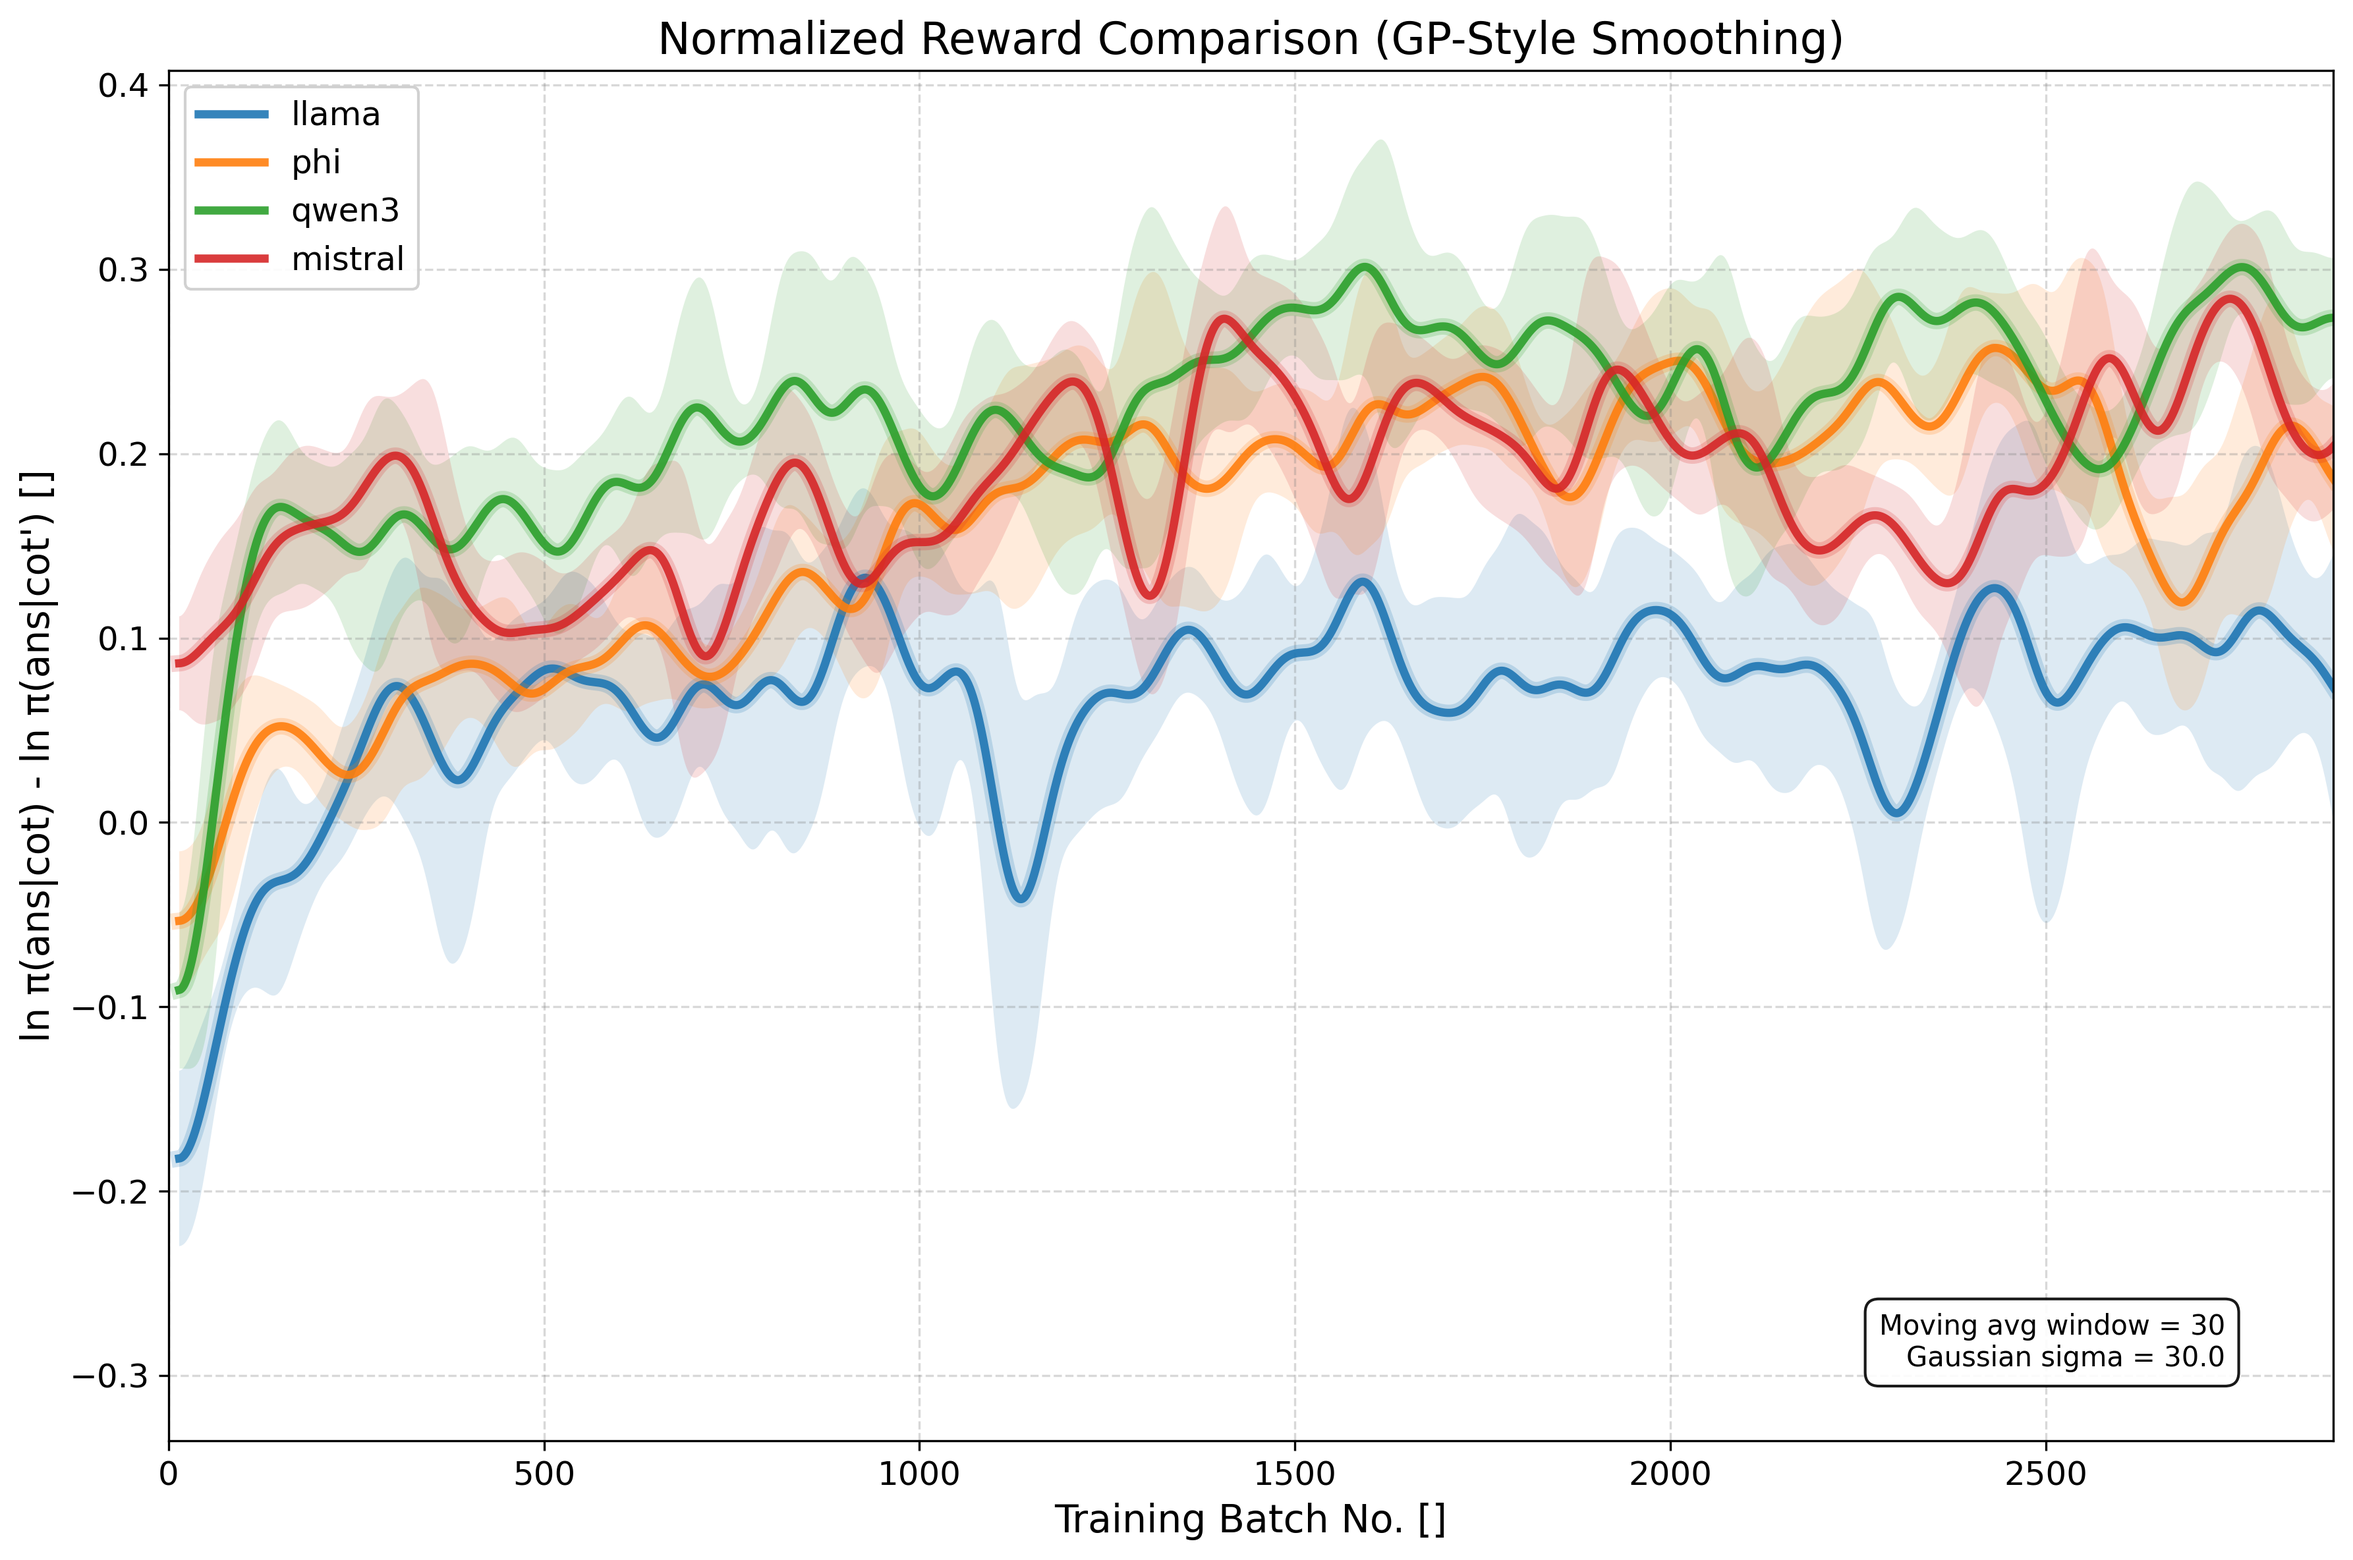
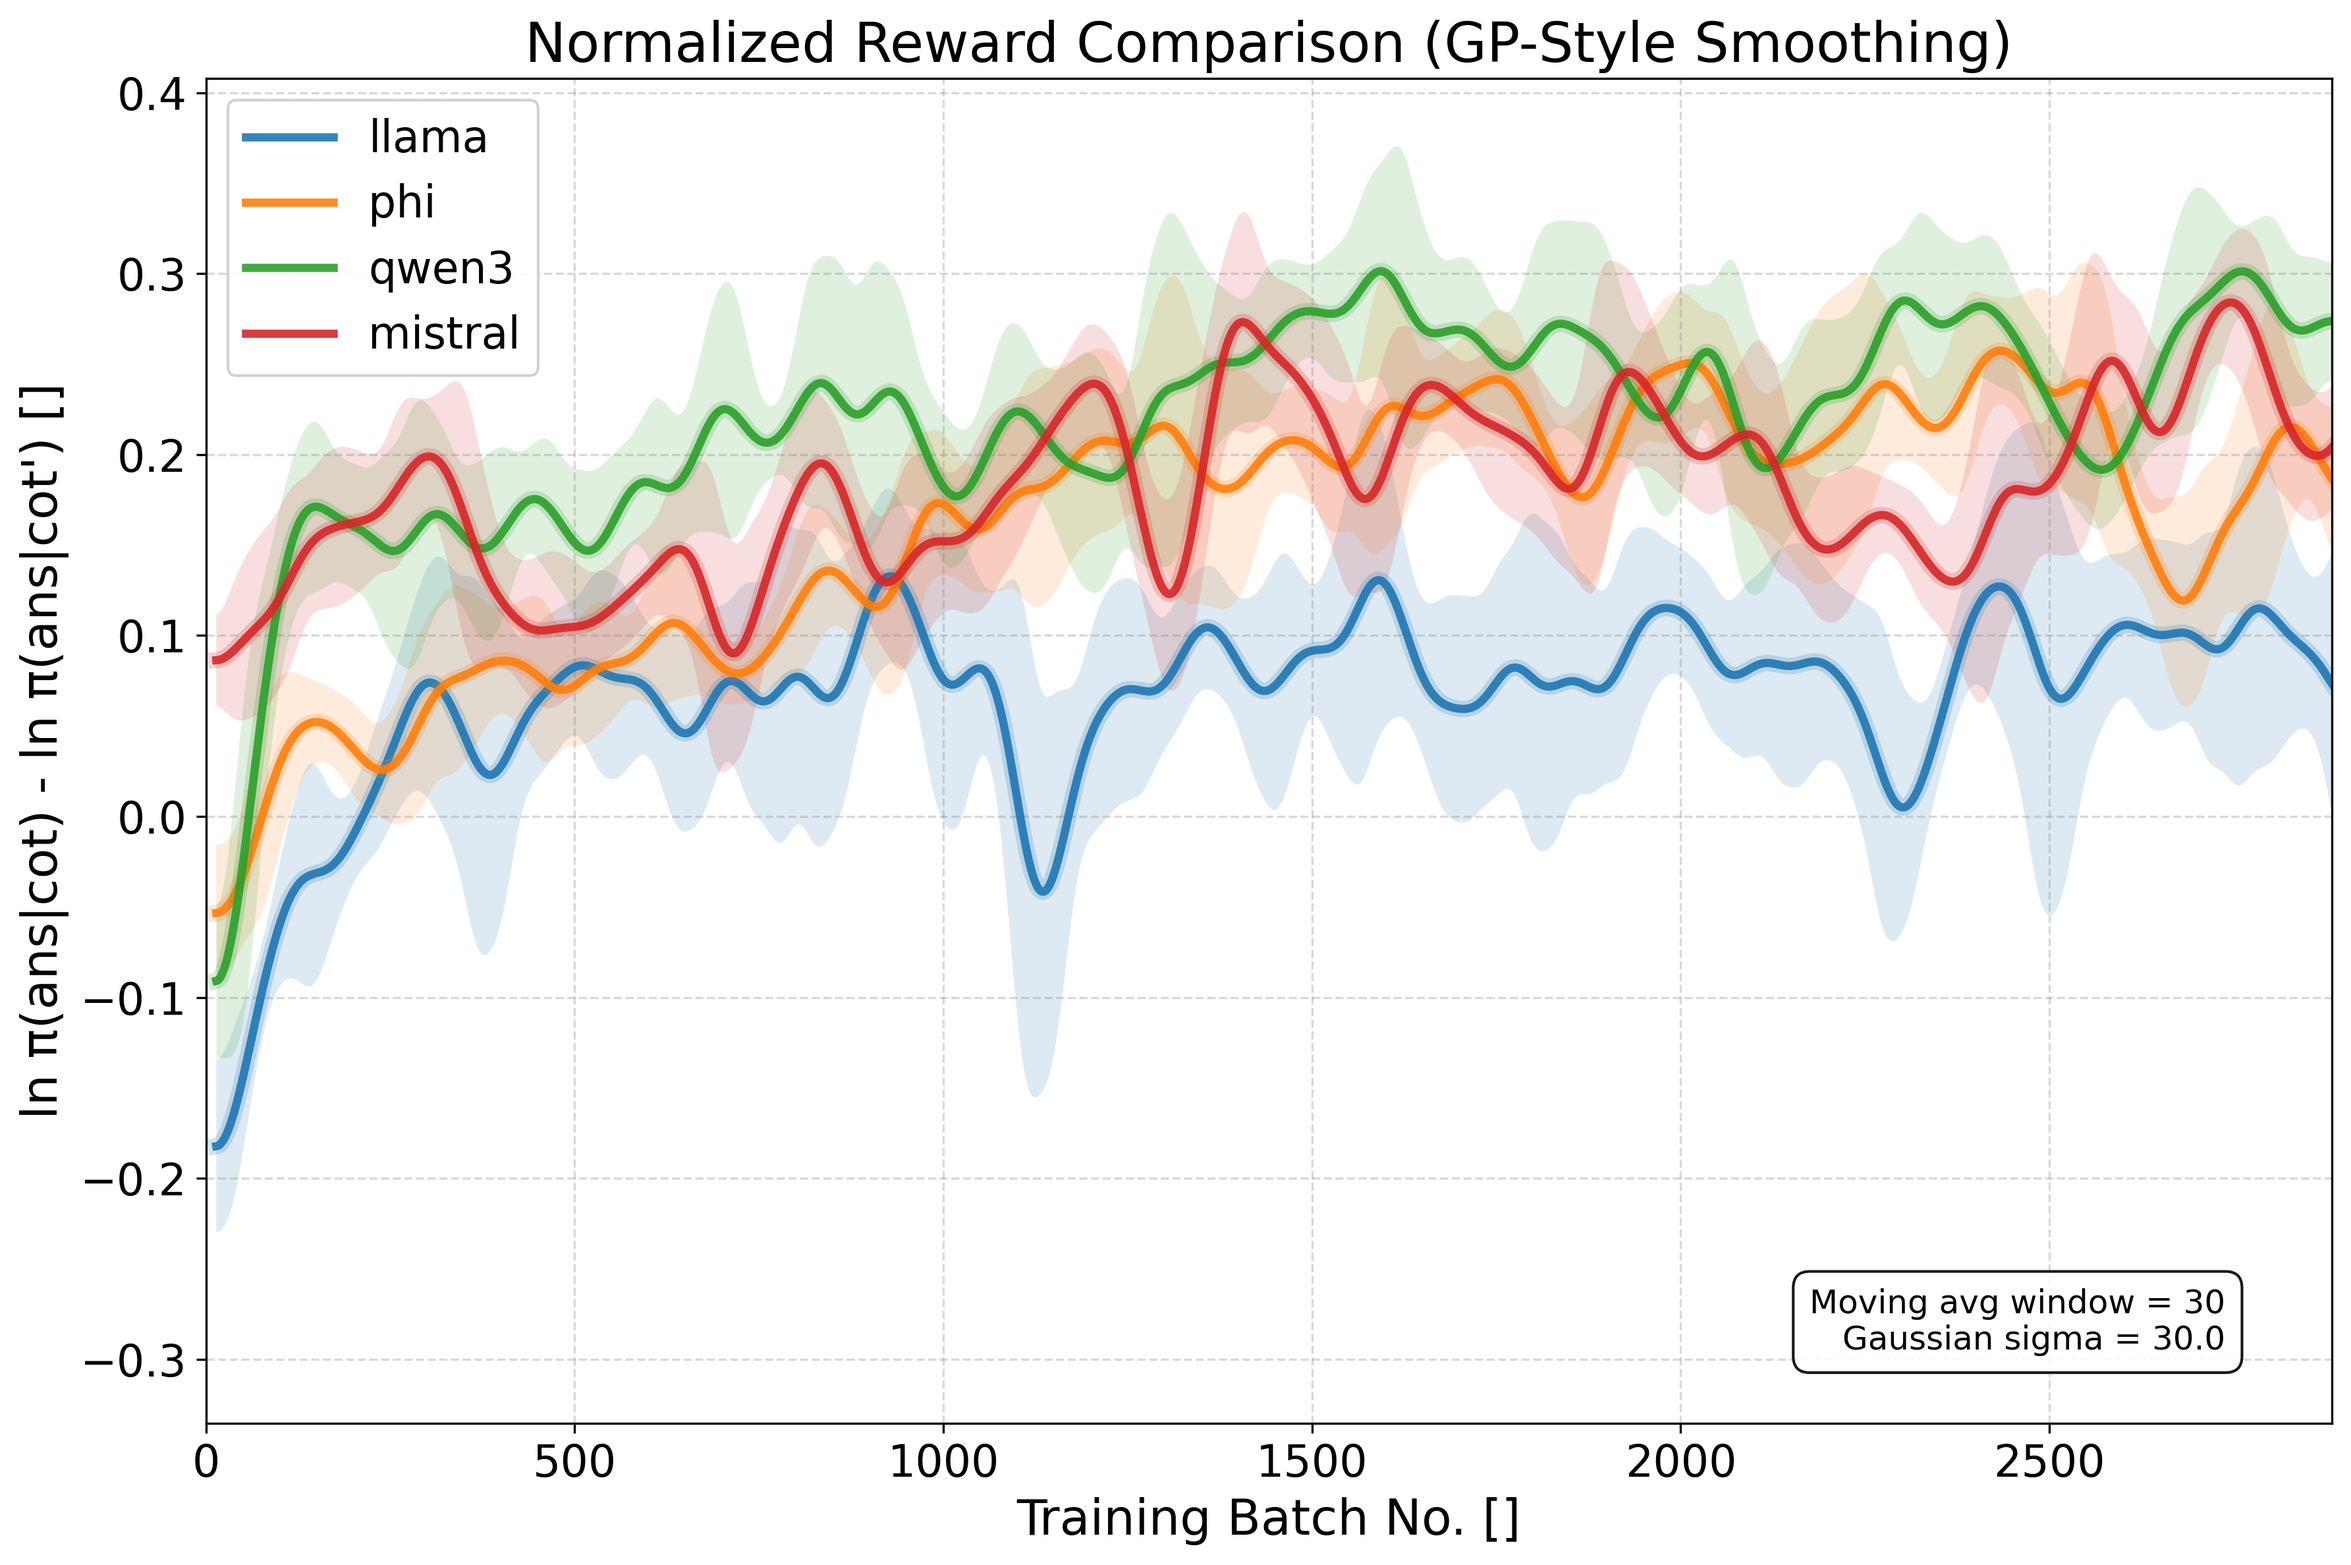
Add configurable font sizes to plotting script and update Figure 2 layout
- Add --font_size flag to create_gp_smoothed_plot.py with default 18
- Update all text elements (title, labels, legend, ticks, annotations) to use configurable font size
- Change Figure 2 from two-column to one-column layout with 0.49\textwidth width
- Generate new plot with font_size=20 for better readability

diff --git a/src/create_gp_smoothed_plot.py b/src/create_gp_smoothed_plot.py
@@ -170,6 +170,8 @@ def main():
     parser.add_argument("--gaussian_sigma", type=float, default=30.0, help="Gaussian smoothing sigma (default: 30.0)")
     parser.add_argument("--output", type=str, default="results/figures/combined_normalized_reward_gp_smoothed.png", help="Output filename")
     parser.add_argument("--task_type", type=str, default="wiki_continuation", help="Task type to plot (default: wiki_continuation)")
+    parser.add_argument("--use_max_x", action="store_true", help="Use maximum x extent instead of minimum (default: False)")
+    parser.add_argument("--font_size", type=int, default=18, help="Font size for all text elements in the plot (default: 18)")
     args = parser.parse_args()
     
     # Define the machine patterns and their labels/colors
@@ -196,11 +198,13 @@ def main():
     
     window_size = args.window_size
     gaussian_sigma = args.gaussian_sigma
+    font_size = args.font_size
     
     # Create the plot
     plt.figure(figsize=(12, 8))
     
     max_x = 0
+    min_x = float('inf')
     valid_experiments = []
     
     # Process each experiment
@@ -221,6 +225,7 @@ def main():
                 plt.plot(x_coords, y_smooth, color=color, linewidth=6, alpha=0.2)
                 
                 max_x = max(max_x, np.max(x_coords))
+                min_x = min(min_x, np.max(x_coords))
                 valid_experiments.append((model_type, label))
                 print(f"Successfully plotted {model_type} ({label}) with {len(x_coords)} points")
             else:
@@ -229,15 +234,20 @@ def main():
             print(f"Warning: File not found: {file_path}")
     
     # Set up the plot formatting similar to plot_training_metrics.py
-    plt.xlabel("Training Batch No. []", fontsize=14)
-    plt.ylabel("ln π(ans|cot) - ln π(ans|cot') []", fontsize=14)
-    plt.title("Normalized Reward Comparison (GP-Style Smoothing)", fontsize=16)
+    plt.xlabel("Training Batch No. []", fontsize=font_size)
+    plt.ylabel("ln π(ans|cot) - ln π(ans|cot') []", fontsize=font_size)
+    plt.title("Normalized Reward Comparison (GP-Style Smoothing)", fontsize=font_size + 2)
     plt.grid(True, linestyle='--', alpha=0.3, color='gray')
-    plt.legend(fontsize=12, framealpha=0.9)
+    plt.legend(fontsize=font_size - 2, framealpha=0.9)
     
-    # Set x-axis limit to the maximum x value
-    if max_x > 0:
-        plt.xlim(0, max_x)
+    # Set x-axis limit based on user preference (default: minimum extent)
+    if valid_experiments:
+        if args.use_max_x:
+            x_limit = max_x
+        else:
+            x_limit = min_x if min_x != float('inf') else max_x
+        
+        plt.xlim(0, x_limit)
     
     # Add smoothing info
     plt.text(
@@ -246,7 +256,7 @@ def main():
         transform=plt.gca().transAxes,
         horizontalalignment='right',
         verticalalignment='bottom',
-        fontsize=10,
+        fontsize=font_size - 6,
         bbox=dict(
             facecolor='white',
             alpha=0.9,
@@ -257,7 +267,7 @@ def main():
     )
     
     # Improve overall aesthetics
-    plt.tick_params(axis='both', which='major', labelsize=12)
+    plt.tick_params(axis='both', which='major', labelsize=font_size - 2)
     
     # Tight layout and save
     plt.tight_layout()

diff --git a/LatexFolder/anonymous-submission-latex-2026.tex b/LatexFolder/anonymous-submission-latex-2026.tex
@@ -172,12 +172,12 @@ Section~\ref{sec:related_work} reviews related work, Section~\ref{sec:MLM} detai
 \label{fig:training-method-causal-final}
 \end{figure*}
 
-\begin{figure*}
+\begin{figure}[t]
   \centering
-    \includegraphics[width=.6\textwidth]{Figures/combined_normalized_reward_gp_smoothed.png}
+    \includegraphics[width=0.49\textwidth]{Figures/combined_normalized_reward_gp_smoothed.png}
     \caption{Normalized reward progression during Wikipedia continuation training across four model architectures. The normalized reward $\ln \pi_\theta(\text{ans} \mid \text{CoT}) - \ln \pi_\theta(\text{ans} \mid \text{CoT}')$ measures how much more informative the trained CoT becomes compared to baseline reasoning from the unmodified model. Each curve represents a different model architecture: Llama 3.1 8B (blue), Phi-3.5 Mini (orange), Qwen3 4B (green), and Mistral 7B (red). The plot uses Gaussian Process-style smoothing with confidence bands to highlight training trends. All models show consistent improvement in CoT informativeness, demonstrating the generalizability of the Markovian training approach across diverse architectures.}
     \label{fig:loss}
-\end{figure*}
+\end{figure}
 
 \section{Related Work}
 \label{sec:related_work}
